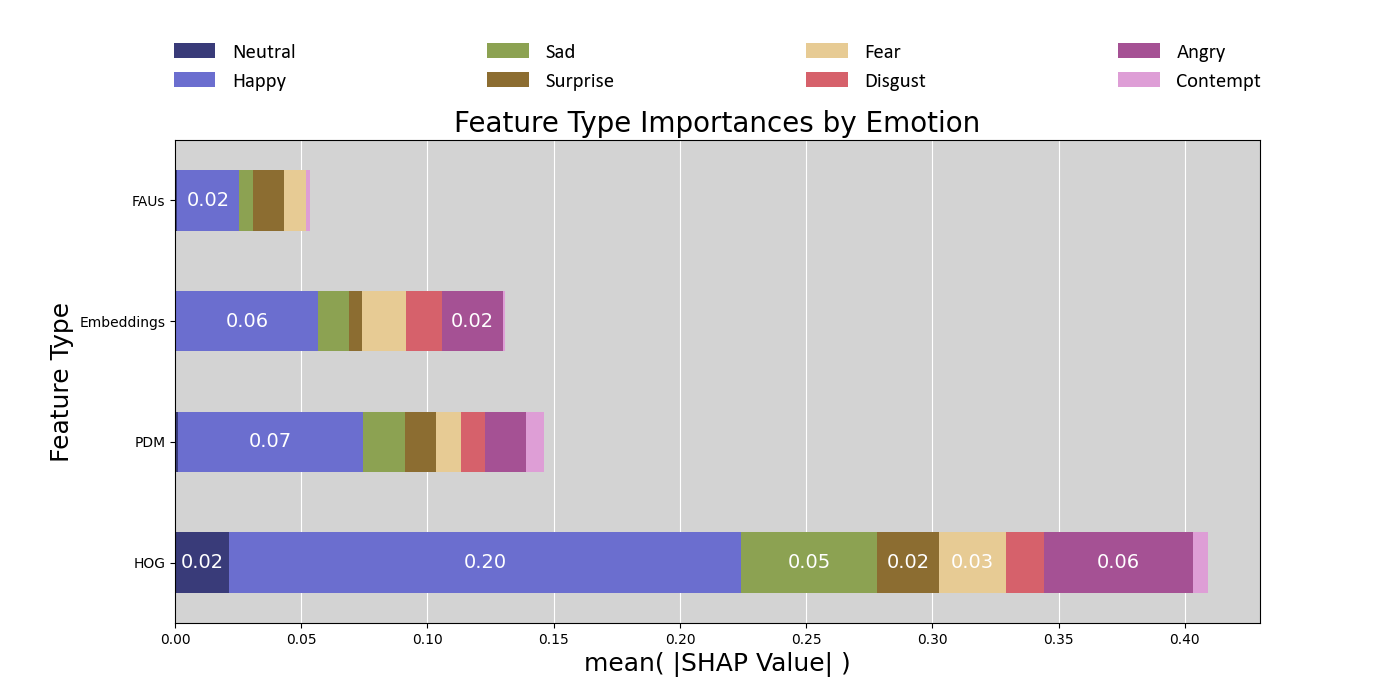
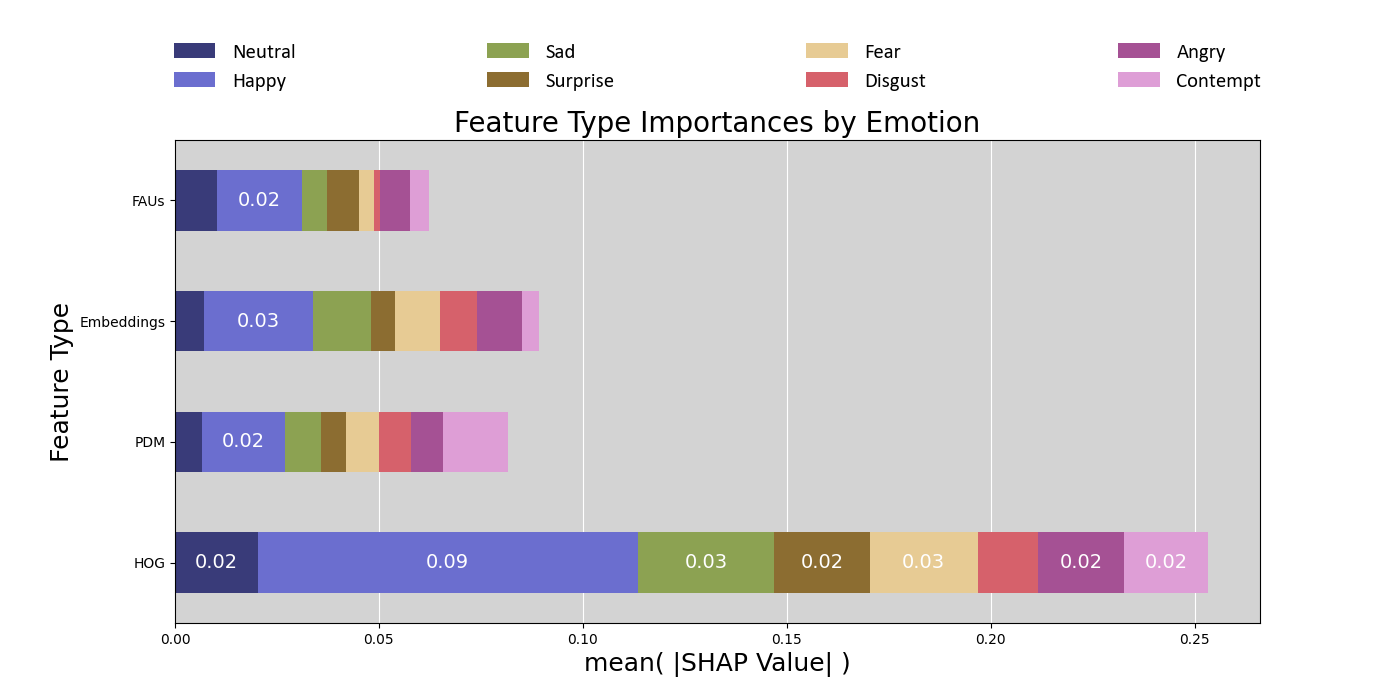
Switch to cuML explainer

diff --git a/src/visualizations/shap_visualization.py b/src/visualizations/shap_visualization.py
@@ -13,12 +13,10 @@ if VARIANT == 0:
     # Only correct predictions, only with the optimal models for stacking
     shap_values = joblib.load('SV_test_correct.joblib')
     # Aggregate for all classes
-    try:
-        # Try with cupy
-        import cupy as cp
-        shap_values = cp.mean(np.abs(shap_values), axis=2).get()
-    except:
-        shap_values = np.mean(np.abs(shap_values), axis=2)
+
+    # find betteR WAY, ABSOLUTE REMOVES DIRECTIONALITY
+
+    shap_values = np.mean(np.abs(shap_values.values), axis=2)
 
     models = ['HOG', 'PDM', 'Embeddings', 'FAUs']
 else:
@@ -32,7 +30,7 @@ for model in models:
     for i in range(8):
         real_feature_names.append(model + ' ' + emotions[i])
 
-shap_values.feature_names = real_feature_names
+#shap_values.feature_names = real_feature_names
 
 
 def bar_plot():
@@ -40,7 +38,7 @@ def bar_plot():
         return np.mean(np.abs(shap_values))
 
     # {feature: mean_abs_shap_value}
-    features = {f: get_mean_abs_shap_values(shap_values[:, i].values) for i, f in enumerate(real_feature_names)}
+    features = {f: get_mean_abs_shap_values(shap_values[:, i]) for i, f in enumerate(real_feature_names)}
 
     # Dictionary of features and as value array of their shap values (one value per emotion)
     feature_shap_values = {m: [] for m in models}
@@ -97,10 +95,10 @@ def bar_plot():
     plt.gca().set_facecolor('lightgray')
 
     plt.savefig('shap_values.png')
-    #plt.show()
+    plt.show()
 
 def violin_plot():
-    features = {f: shap_values[:, i].values for i, f in enumerate(real_feature_names)}
+    features = {f: shap_values[:, i] for i, f in enumerate(real_feature_names)}
 
     plt.figure(figsize=(14, 9))
 
@@ -117,7 +115,7 @@ def violin_plot():
             axis[i].set_title(model, fontsize=16)
             axis[i].grid(True)
             # Make all have same x-axis
-            axis[i].set_xlim(-0.5, 0.5)
+            axis[i].set_xlim(-0.25, 0.25)
             axis[i].set_xlabel('SHAP Value')
 
     plt.subplots_adjust(wspace=0.55, top=0.85)
@@ -126,7 +124,7 @@ def violin_plot():
 
     plt.savefig('shap_values_violin.png')
 
-    #plt.show()
+    plt.show()
 
-bar_plot()
-violin_plot()
+#bar_plot()
+#violin_plot()

diff --git a/feature_importances_experiment.py b/feature_importances_experiment.py
@@ -3,7 +3,7 @@ import logging
 
 import joblib
 import numpy as np
-import shap
+from cuml.explainer import KernelExplainer
 
 from src.model_training import SVC
 from src.util.data_paths import get_data_path
@@ -40,7 +40,7 @@ if __name__ == '__main__':
     svc.fit(X_train, y_train)
 
     # Generate Explainer
-    explainer = shap.Explainer(svc, X_train)
+    explainer = KernelExplainer(model=svc.predict, data=X_train, is_gpu_model=True, random_state=42)
 
     # Get SHAP Values
     shap_values = explainer(X_test)
